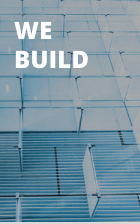
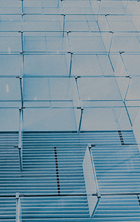
block services

diff --git a/style.css b/style.css
@@ -192,29 +192,194 @@
 }
 
 /* Белый текст «WE BUILD» / «WE PLAN» / «WE MANAGE» */
+
 .feature-text-white {
-  position: absolute;
-  left: 14px;                      /* Координаты текста из Figma */
-  top: 15px;                       /* Координаты текста из Figma */
-  width: 76px;                     /* Ширина текстового блока из Figma */
-  height: 58px;                    /* Высота текстового блока из Figma */
+  position: absolute !important;
+  left: 14px !important;           
+  top: 15px !important;            
+  width: 76px !important;          
+  height: 58px !important;                    
   
-  font-family: 'OpenSans', sans-serif !important;
-  font-size: 24px !important;      /* Размер шрифта из Figma */
-  line-height: 29px !important;    /* Межстрочный интервал из Figma */
+  font-family: 'Open Sans', Arial, sans-serif !important;
+  font-size: 24px !important;      
+  line-height: 29px !important;    
   letter-spacing: 0.1875px !important;
-  color: #FFFFFF !important;       /* Белый цвет из Figma */
-  font-weight: bold !important;
-  text-transform: uppercase;
+  color: #FFFFFF !important;       
+  font-weight: 700 !important;      
+  text-transform: uppercase !important;
+  
+  
+  text-shadow: none !important;                
+  -webkit-font-smoothing: antialiased !important;  
+  -moz-osx-font-smoothing: grayscale !important;  
+  text-rendering: optimizeLegibility !important; 
 }
 
 
-      /* --- 6. БЛОК SERVICES --- */
+
+                  /* --- 6. БЛОК SERVICES --- */
       .services {
-        width: 100%;
-        max-width: 1440px;
-        margin: 40px auto;
+        width: 100% !important;
+        max-width: 1440px !important;
+        margin: 60px auto !important;
+        padding: 0 40px !important;
+        display: flex !important;
+        flex-direction: column !important;
+        gap: 50px !important; /* Отступ между первой строкой и карточками */
       }
+
+      /* Первая строка: заголовок, описание, кнопка */
+      .services-row1 {
+        width: 100% !important;
+        display: flex !important;
+        justify-content: space-between !important; /* Распределяет элементы по краям */
+        align-items: flex-start !important;
+        gap: 40px !important;
+      }
+
+      /* Блок заголовка OUR CAPABILITIES и синей линии */
+      .services-column-capabilites {
+        display: flex !important;
+        flex-direction: column !important;
+        align-items: flex-start !important;
+        flex: 0 0 200px !important;
+      }
+
+      .services-title {
+        position: static !important; /* УБИРАЕТ СЪЕЗЖАНИЕ В УГОЛ */
+        width: auto !important;
+        height: auto !important;
+        font-family: 'Open Sans', sans-serif !important;
+        font-size: 18px !important;
+        line-height: 21px !important;
+        letter-spacing: 2.30625px !important;
+        color: #48555B !important;
+        text-transform: uppercase !important;
+        margin-bottom: 8px !important;
+      }
+
+      .services-line {
+        position: static !important; /* УБИРАЕТ СЪЕЗЖАНИЕ В УГОЛ */
+        width: 50px !important;
+        height: 2px !important;
+        background-color: #00A4E5 !important;
+        border: none !important;
+      }
+
+      /* Описание (Lorem ipsum) в первой строке */
+      .services-text1 {
+        position: static !important; /* УБИРАЕТ СЪЕЗЖАНИЕ В УГОЛ */
+        width: auto !important;
+        height: auto !important;
+        flex: 0 0 405.4px !important; /* Точная ширина текстового блока */
+        font-family: 'Open Sans', sans-serif !important;
+        font-size: 13px !important;
+        line-height: 23px !important;
+        letter-spacing: 0.2px !important;
+        color: #48555B !important;
+      }
+
+      /* Кнопка ALL SERVICES */
+      .all-services-btn {
+        width: 150px !important;
+        height: 40px !important;
+        background: #00A4E5 !important;
+        color: #FFFFFF !important;                  
+        text-decoration: none !important;           
+        font-size: 14px !important;                 
+        font-weight: bold !important;               
+        display: flex !important;
+        justify-content: center !important;
+        align-items: center !important;
+        transition: background 0.3s ease, transform 0.2s ease !important;
+      }
+
+      .all-services-btn:hover {
+        background: #0082b5 !important; 
+        transform: scale(1.05) !important; /* Плавное увеличение, как у get-in-touch */
+      }
+
+      /* ВТОРАЯ СТРОКА: ТРИ КАРТОЧКИ В РЯД */
+      .services-row2 {
+        display: flex !important;
+        flex-direction: row !important; /* Выстраивает карточки строго горизонтально */
+        justify-content: space-between !important;
+        gap: 30px !important;
+        width: 100% !important;
+      }
+
+      /* Каждая отдельная карточка услуг */
+      .services-item-card {
+        /* Каждая отдельная карточка услуг (настройки из Figma) */
+.services-item-card {
+  flex: 0 1 295px !important;  /* Точная ширина карточки из Figma (295px) */
+  min-height: 330px !important; /* Точная высота карточки из Figma (330px) */
+  
+  display: flex !important;
+  flex-direction: column !important; /* Элементы внутри идут строго сверху вниз */
+  align-items: flex-start !important; /* Прижимаем контент к левому краю карточки */
+  position: relative !important;
+}
+
+      }
+
+      /* Контейнер для иконок-картинок */
+      .img-services {
+        width: 60px !important;
+        height: 60px !important;
+        margin-bottom: 15px !important;
+      }
+
+      .img-services img {
+        width: 100% !important;
+        height: 100% !important;
+        object-fit: contain !important;
+      }
+
+      /* Жирный заголовок внутри карточки */
+      .services-bold-text {
+        position: static !important; /* УБИРАЕТ СЪЕЗЖАНИЕ В УГОЛ */
+        width: auto !important;
+        height: auto !important;
+        font-family: 'Open Sans', sans-serif !important;
+        font-size: 16px !important;
+        line-height: 24px !important;
+        font-weight: 700 !important;
+        color: #48555B !important;
+        margin: 15px 0 10px 0 !important;
+        text-align: left !important;
+      }
+
+      /* Описание под жирным заголовком */
+      .services-text-text {
+        position: static !important; /* УБИРАЕТ СЪЕЗЖАНИЕ В УГОЛ */
+        width: auto !important;
+        height: auto !important;
+        font-family: 'Open Sans', sans-serif !important;
+        font-size: 13px !important;
+        line-height: 22px !important;
+        color: #48555B !important;
+        text-align: left !important;
+      }
+
+
+
+
+/* Стиль для кнопки подписки (чтобы она не ломалась) */
+.signup-btn {
+  width: 150px;
+  height: 40px;
+  background: #00A4E5;
+  color: #FFFFFF;
+  border: none;
+  font-size: 14px;
+  font-weight: bold;
+  cursor: pointer;
+}
+
+
+
+
 
       /* --- 7. БЛОК GET IN TOUCH --- */
       .get-in-touch {

diff --git a/index.html b/index.html
@@ -3,7 +3,7 @@
   <head>
     <meta charset="UTF-8" />
     <meta name="viewport" content="width=device-width, initial-scale=1.0" />
-    <title>Мой сайт</title>
+    <title>Мой site</title>
 
     <link rel="stylesheet" href="style.css" />
   </head>
@@ -32,14 +32,18 @@
 
         <div class="about-row">
           <div class="about-content">
-  <p class="about-text">
-  Founded in 2011 by John Mathew Smith, <span class="text-accent">Konstruct</span> has become the number one construction management firm
-</p>
+            <p class="about-text">
+              Founded in 2011 by John Mathew Smith,
+              <span class="text-accent">Konstruct</span> has become the number
+              one construction management firm
+            </p>
 
-  <p class="about-text1">
-    Lorem ipsum dolor sit amet, consectetuer adipiscing elit, sed diam nonummy nibh euismod tincidunt ut laoreet dolore magna aliquam erat...
-  </p>
-</div>
+            <p class="about-text1">
+              Lorem ipsum dolor sit amet, consectetuer adipiscing elit, sed diam
+              nonummy nibh euismod tincidunt ut laoreet dolore magna aliquam
+              erat...
+            </p>
+          </div>
 
           <!-- Правая часть: три блока в ряд -->
           <div class="about-features">
@@ -57,7 +61,7 @@
               </div>
             </div>
 
-            <!-- Карточка 3: DELIVER (То, что вы скинули в коде) -->
+            <!-- Карточка 3: DELIVER -->
             <div class="feature-item deliver-card">
               <div class="feature-overlay">
                 <span class="feature-text-white">WE<br />BUILD</span>
@@ -68,8 +72,72 @@
       </section>
 
       <section class="services">
-        <img src="img/services.png" alt="Наши услуги" />
+        <!-- ПЕРВАЯ СТРОКА: Заголовок, описание и синяя кнопка -->
+        <div class="services-row1">
+          <div class="services-column-capabilites">
+            <h2 class="services-title">OUR CAPABILITES</h2>
+            <div class="services-line"></div>
+          </div>
+
+          <p class="services-text1">
+            Lorem ipsum dolor sit amet, consectetuer adipiscing elit, sed diam
+            nonummy nibh euismod tincidunt ut laoreet dolore magna aliquam erat.
+          </p>
+
+          <a href="#" class="all-services-btn">ALL SERVICES</a>
+        </div>
+        <!-- ЗДЕСЬ СТРОКА СТРОГО ЗАКРЫВАЕТСЯ! -->
+
+        <!-- ВТОРАЯ СТРОКА: ТРИ КАРТОЧКИ В РЯД -->
+        <div class="services-row2">
+          <!-- Карточка 1 -->
+          <div class="services-item-card">
+            <div class="img-services">
+              <img src="img/Services_Bitmap1.png" alt="Management" />
+            </div>
+            <h2 class="services-bold-text">
+              PROJECT AND CONSTRUCTION MANAGEMENT
+            </h2>
+            <p class="services-text-text">
+              Lorem ipsum dolor sit amet, consectetuer adipiscing elit, sed diam
+              nonummy nibh euismod tincidunt ut laoreet dolore magna aliquam
+              erat.
+            </p>
+          </div>
+
+          <!-- Карточка 2 -->
+          <div class="services-item-card">
+            <div class="img-services">
+              <img src="img/Services_Bitmap2.png" alt="Audit" />
+            </div>
+            <h2 class="services-bold-text">STRUCTURE AUDIT AND MAINTENANCE</h2>
+            <p class="services-text-text">
+              Lorem ipsum dolor sit amet, consectetuer adipiscing elit, sed diam
+              nonummy nibh euismod tincidunt ut laoreet dolore magna aliquam
+              erat.
+            </p>
+          </div>
+
+          <!-- Карточка 3 -->
+          <div class="services-item-card">
+            <div class="img-services">
+              <img src="img/Services_Bitmap3.png" alt="Modeling" />
+            </div>
+            <h2 class="services-bold-text">
+              FACTORY CONSTRUCTION AND MODELING
+            </h2>
+            <p class="services-text-text">
+              Lorem ipsum dolor sit amet, consectetuer adipiscing elit, sed diam
+              nonummy nibh euismod tincidunt ut laoreet dolore magna aliquam
+              erat.
+            </p>
+          </div>
+        </div>
+        <!-- Закрытие второй строки -->
+
+        
       </section>
+
       <div class="get-in-touch">
         <img src="img/get-in-touch.png" alt="Фон" />
 
@@ -87,7 +155,8 @@
             placeholder="[email redacted]"
             required
           />
-          <button type="submit" class="all-services-btn">SIGNUP</button>
+          <!-- ИСПРАВЛЕНО: Дали уникальный класс signup-btn для формы подписки -->
+          <button type="submit" class="signup-btn">SIGNUP</button>
         </form>
       </div>
 